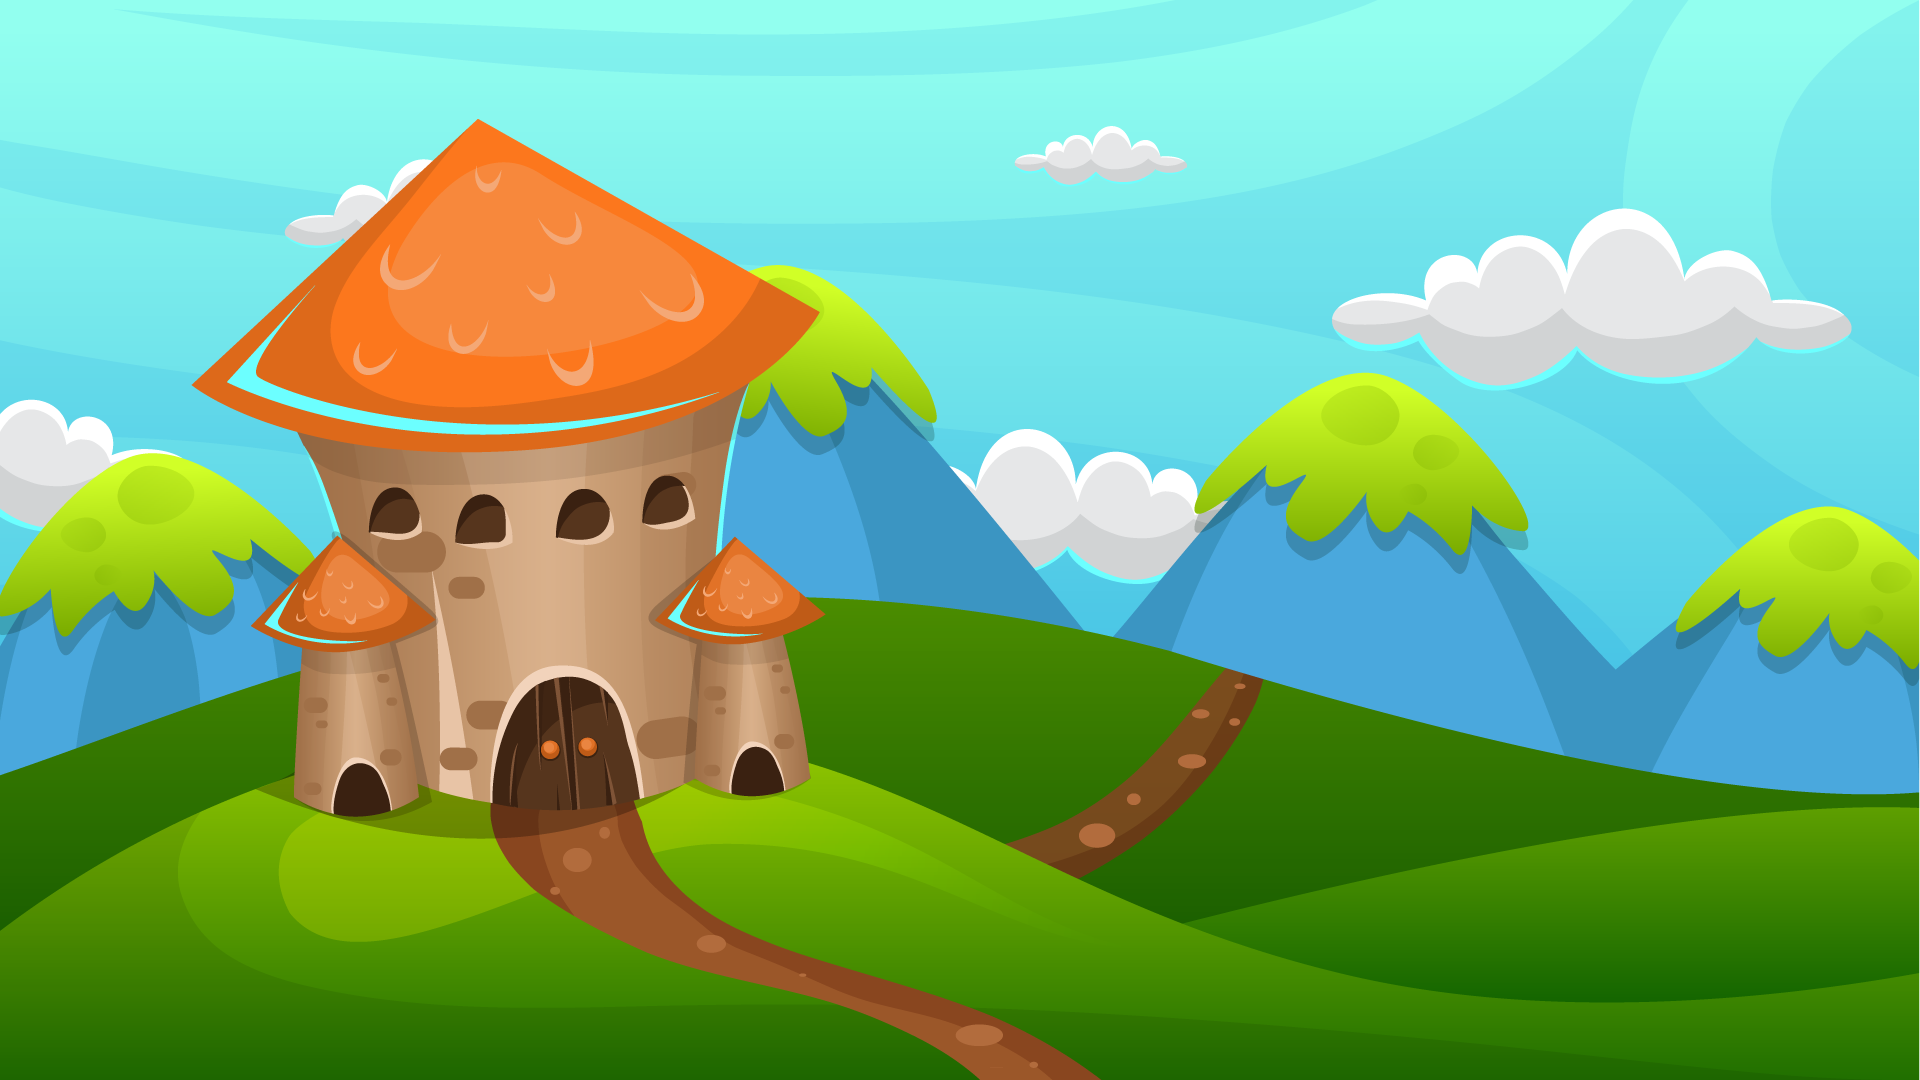
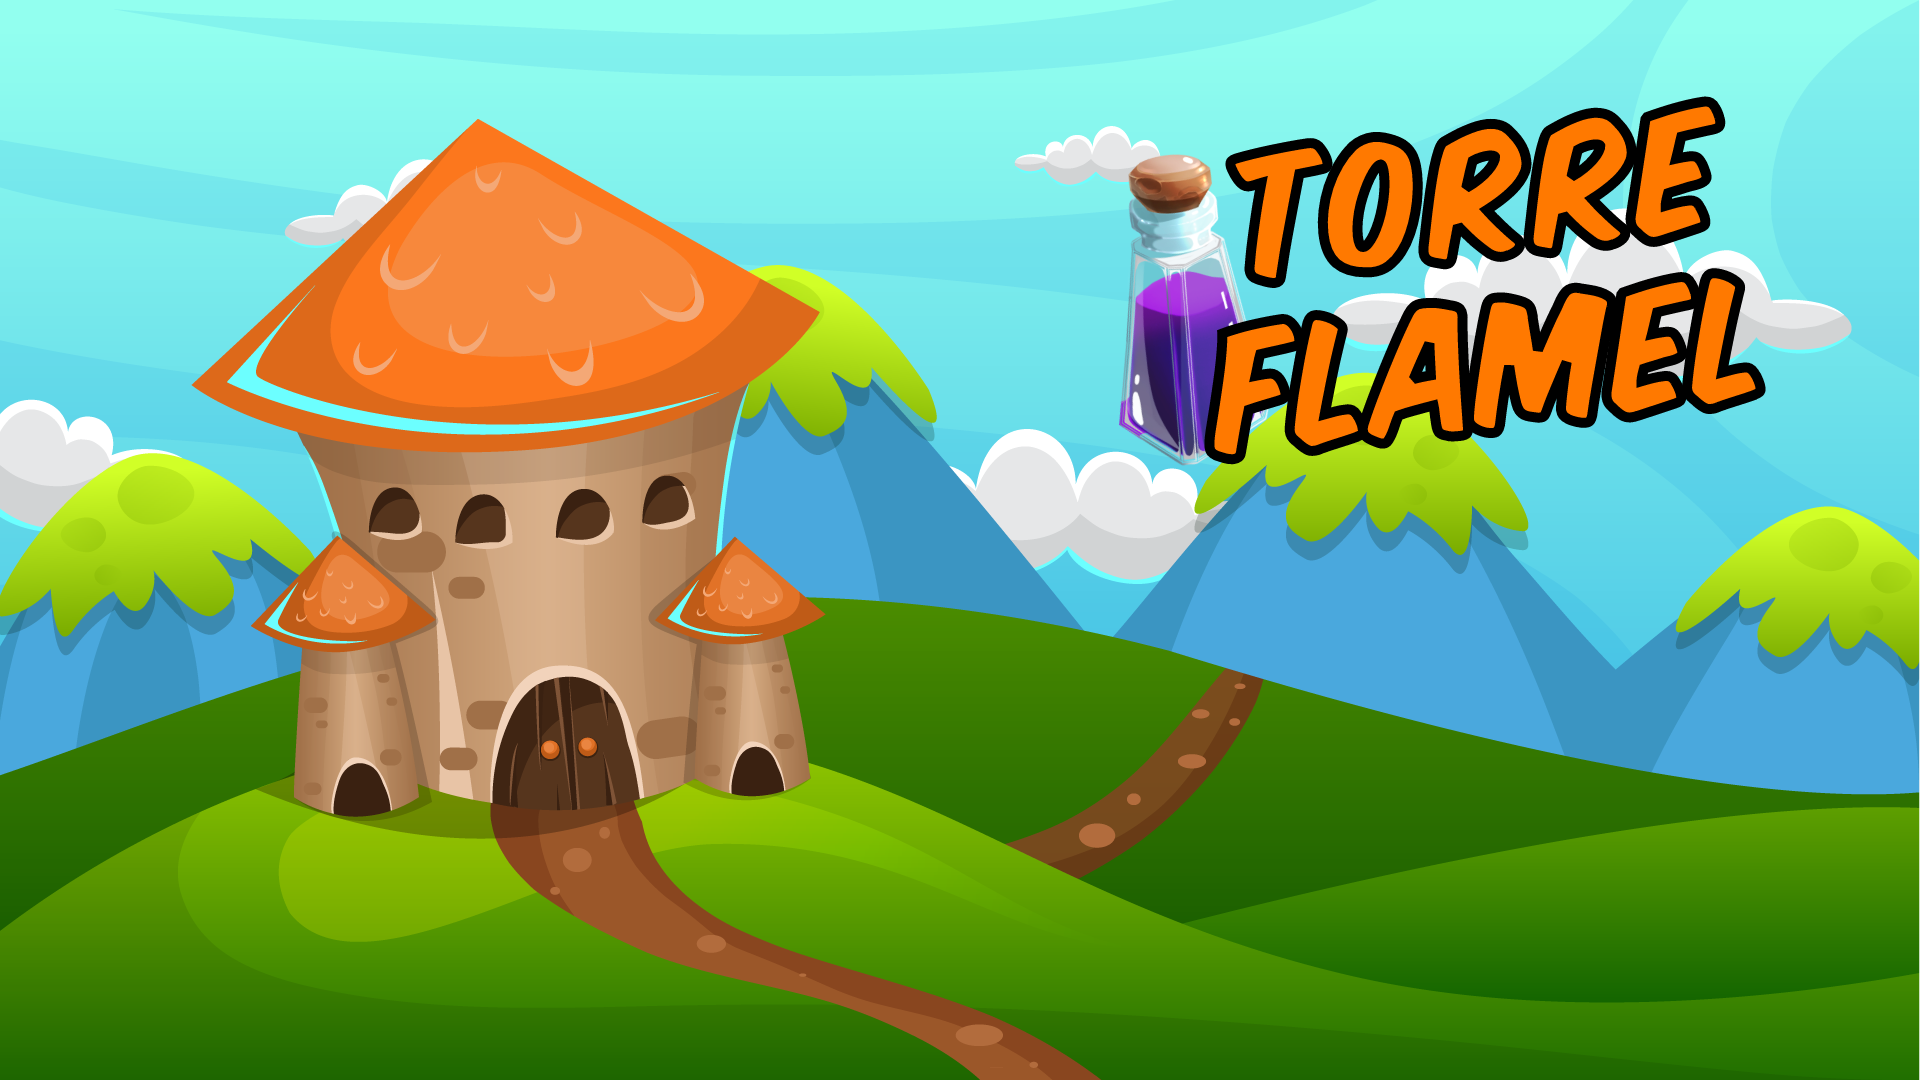
mudança da tela inicial

Changed region(s): [[0.5625, 0.0917, 0.9375, 0.4278]]

diff --git a/frontend/src/aplicacao3/game/scripts/script.js b/frontend/src/aplicacao3/game/scripts/script.js
@@ -48,6 +48,8 @@ $(document).ready(function(){
     /* Define configurações iniciais do jogo */
     $("#play").hide();
     $("#potion").hide();
+    $("#modo-de-jogo").hide("slow");
+    $("#play").fadeIn("slow");
     $("#random").on("click", () => {gameSettings.randomMode ()});
     $("#sequential").on("click", () => {gameSettings.sequentialMode ()});
     $("#play").on("click", () => { gameSettings.gameStart() });

diff --git a/frontend/src/aplicacao3/menu/index.html b/frontend/src/aplicacao3/menu/index.html
@@ -3,11 +3,12 @@
     <head>
         <meta name="viewport" content="width=device-width, initial-scale=1">
         <link rel="stylesheet" href="style.css">
+        <title>Torre Flamel</title>
     </head>
 <body>
 
     <main>
-            <div id="gameTitle"><strong>Wizard's Potions</strong></div>
+            <div id="gameTitle"><strong></strong></div>
             
             <div id="buttons">
             <div>

diff --git a/frontend/src/aplicacao3/game/index.html b/frontend/src/aplicacao3/game/index.html
@@ -9,7 +9,7 @@
     
     <link rel="stylesheet" href="styles/style.css">
     <link rel="stylesheet" href="styles/style-mobile.css">
-    <title>A Torre das Poções</title>
+    <title>Torre Flamel</title>
 </head>
 
 <body>
